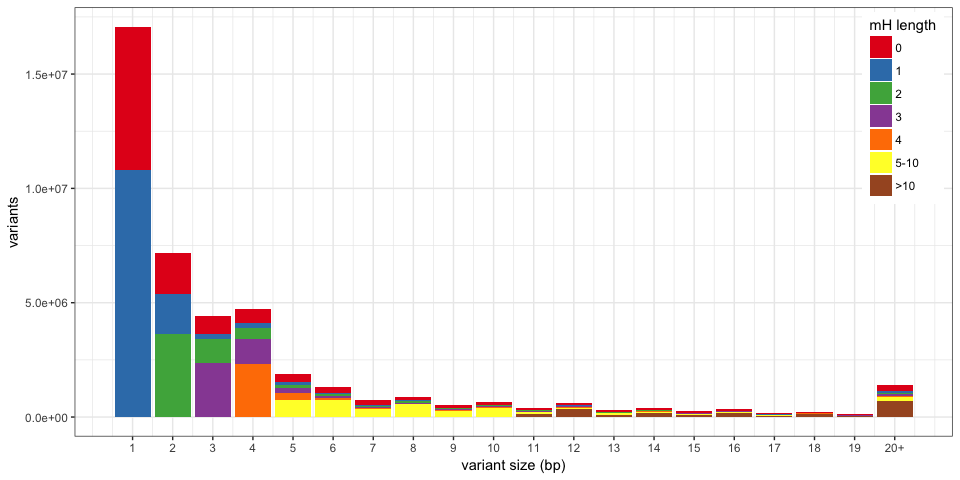
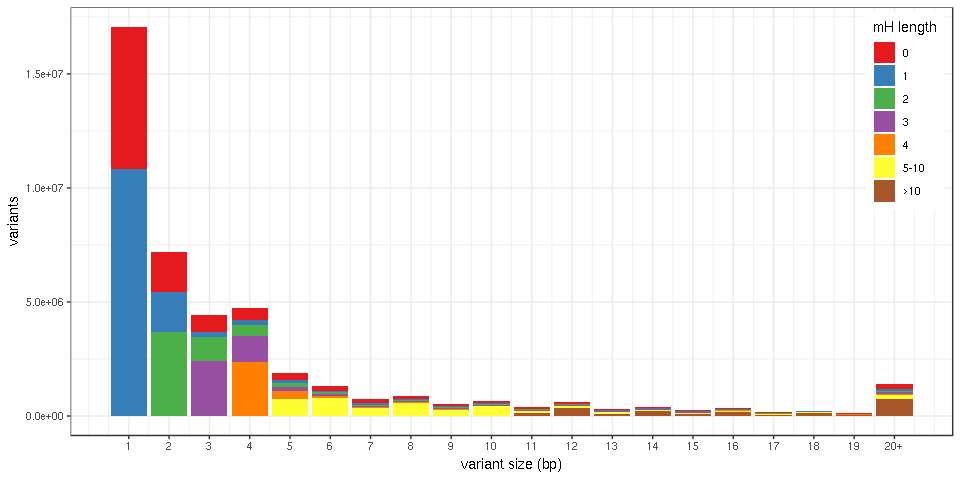
latest results and also stats for xCas9

diff --git a/reports/MHcut-Figures-dbSNPClinVar.md b/reports/MHcut-Figures-dbSNPClinVar.md
@@ -22,11 +22,7 @@ winsor <- function(x, u = 10) {
 }
 ```
 
-Then we’ll read the input TSV file (with 43M variants) using the `fread`
-function. This will create a *data.table* object which uses disk space
-rather than memory (if I understand correctly) so it’s good for big
-data. To reduce the amount of data loaded in R, let’s only load some
-specific columns (using `select=`).
+Then we'll read the input TSV file (with 43M variants) using the `fread` function. This will create a *data.table* object which uses disk space rather than memory (if I understand correctly) so it's good for big data. To reduce the amount of data loaded in R, let's only load some specific columns (using `select=`).
 
 ``` r
 ## Read the first row (headers) to remind us the order of each column
@@ -37,22 +33,23 @@ read.table("../data/mhcut-dbsnp-clinvar-deletion-variants.tsv.gz", nrows = 1)
     ## 1 chr start end RS CAF TOPMED GENEINFO PM MC AF_EXAC AF_TGP ALLELEID CLNDN
     ##      V14     V15              V16        V17      V18     V19  V20 V21
     ## 1 CLNSIG DBVARID GENEINFO.ClinVar MC.ClinVar citation geneloc varL mhL
-    ##    V22 V23  V24    V25    V26    V27    V28     V29        V30         V31
-    ## 1 mh1L hom nbMM mhDist MHseq1 MHseq2 pamMot pamUniq guidesNoOT guidesMinOT
+    ##    V22 V23  V24    V25    V26    V27 V28    V29     V30         V31
+    ## 1 mh1L hom nbMM mhDist MHseq1 MHseq2  GC pamMot pamUniq guidesNoNMH
+    ##            V32          V33
+    ## 1 guidesMinNMH max2cutsDist
 
 ``` r
 ## Import variants and colums varL, mhL, mh1L, mhDist
 var = fread("gunzip -c ../data/mhcut-dbsnp-clinvar-deletion-variants.tsv.gz", 
-    select = c(20:22, 25))
+    select = c(20:22, 25, 29:30))
 ```
 
-This takes about 1 min. Now the `var` object is a *data.table* with 43M
-values. Before feeding this to ggplot2, the most efficient is to compute
-the summary statistics using the `data.table` functions, then convert to
-*data.frame* and call ggplot.
+This takes about 1 min. Now the `var` object is a *data.table* with 43M values. Before feeding this to ggplot2, the most efficient is to compute the summary statistics using the `data.table` functions, then convert to *data.frame* and call ggplot.
 
-Let’s say we want the number of variants for each pair of {variant size,
-MH length}, the *data.table* command is:
+Histogram of the variant size colored by MH length
+--------------------------------------------------
+
+Here we want the number of variants for each pair of {variant size, MH length}, the *data.table* command is:
 
 ``` r
 varmh = var[, .N, by = .(varL, mhL)]
@@ -60,21 +57,20 @@ head(varmh)
 ```
 
     ##    varL mhL       N
-    ## 1:    6   6  577270
-    ## 2:    5   4  316808
-    ## 3:    1   0 6275487
-    ## 4:   19  19   12577
-    ## 5:    5   0  349498
-    ## 6:   13  13   66297
+    ## 1:    6   6  609758
+    ## 2:    5   4  323425
+    ## 3:    1   0 6241188
+    ## 4:   19  19   13646
+    ## 5:    5   0  309849
+    ## 6:   13  13   69665
 
 ``` r
 nrow(varmh)
 ```
 
-    ## [1] 2972
+    ## [1] 3072
 
-This is now just ~3,000 values so we can convert to *data.frame* and use
-dplyr/ggplot to make the graph.
+This is now just ~3,000 values so we can convert to *data.frame* and use dplyr/ggplot to make the graph.
 
 ``` r
 varmh.df = as.data.frame(varmh)
@@ -94,12 +90,12 @@ head(bar.df)
     ## # Groups:   varL [3]
     ##    varL mhL.class        N
     ##   <dbl> <fct>        <int>
-    ## 1  1.00 0          6275487
-    ## 2  1.00 1         10790647
-    ## 3  2.00 0          1781047
-    ## 4  2.00 1          1761704
-    ## 5  2.00 2          3629809
-    ## 6  3.00 0           769328
+    ## 1     1 0          6241188
+    ## 2     1 1         10824944
+    ## 3     2 0          1723247
+    ## 4     2 1          1774571
+    ## 5     2 2          3674728
+    ## 6     3 0           714709
 
 ``` r
 ## Bar plot using ggplot2
@@ -112,8 +108,7 @@ ggplot(bar.df, aes(x = varL, y = N, fill = mhL.class)) + geom_bar(stat = "identi
 
 ![](MHcut-Figures-dbSNPClinVar_files/figure-markdown_github/unnamed-chunk-4-1.png)
 
-Wow, there are not that many variants with no micro-homology. I expected
-much more.
+Wow, there are not that many variants with no micro-homology. I expected much more.
 
 Just a safety check, are we really looking at ~43M variants?
 
@@ -121,12 +116,11 @@ Just a safety check, are we really looking at ~43M variants?
 sum(varmh.df$N)
 ```
 
-    ## [1] 43567375
+    ## [1] 43567343
 
 Yep.
 
-Of note, there is a one-liner way of doing this using the power of
-pipes. It’s a long line but can be read from left to right:
+Of note, there is a one-liner way of doing this using the power of pipes. It's a long line but can be read from left to right:
 
 ``` r
 varmh %>% as.data.frame %>% mutate(mhL.class = cut(mhL, breaks = c(-1, 0, 1, 
@@ -139,3 +133,60 @@ varmh %>% as.data.frame %>% mutate(mhL.class = cut(mhL, breaks = c(-1, 0, 1,
 ```
 
 ![](MHcut-Figures-dbSNPClinVar_files/figure-markdown_github/unnamed-chunk-6-1.png)
+
+Table for different filtering criteria
+--------------------------------------
+
+We want to know how many variants have:
+
+1.  MH length &gt;= 3, `mhL>=3`.
+2.  an available PAM, `pamMot>0`.
+3.  with a unique protospacer, `pamUniq>0`.
+4.  and with no nested MH, `nbNMH==0` in the guide file.
+
+``` r
+nb.mh3 = nrow(var[mhL >= 3])
+nb.mh3.pam = nrow(var[mhL >= 3 & pamMot > 0])
+nb.mh3.pam.uniq = nrow(var[mhL >= 3 & pamMot > 0 & pamUniq > 0])
+```
+
+For the last number we should look into the guides to make sure that we count guides that are both unique and with no nested MH.
+
+``` r
+guides = fread("gunzip -c ../data/mhcut-dbsnp-clinvar-deletion-guides.tsv.gz", 
+    sel = c(1:4, 21, 29, 30, 43))
+nb.mh3.pam.uniq.nonmh = nrow(unique(guides[mhL >= 3 & pamMot > 0 & pamUniq > 
+    0 & nbNMH == 0, .(chr, start, end, RS)]))
+```
+
+Formatted as a table:
+
+``` r
+ngg.sum = tibble(cas9 = "NGG", nb.mh3, nb.mh3.pam, nb.mh3.pam.uniq, nb.mh3.pam.uniq.nonmh)
+kable(ngg.sum, format.args = list(big.mark = ","))
+```
+
+| cas9 |      nb.mh3|  nb.mh3.pam|  nb.mh3.pam.uniq|  nb.mh3.pam.uniq.nonmh|
+|:-----|-----------:|-----------:|----------------:|----------------------:|
+| NGG  |  13,166,790|   2,386,722|        1,425,346|                780,609|
+
+Now let's do the same for the xCas9 run. Because of the more flexible PAM we expect more "targetable" deletions.
+
+``` r
+var.x = fread("gunzip -c ../data/mhcut-dbsnp-clinvar-deletion-xCas9-variants.tsv.gz", 
+    select = c(20:22, 25, 29:30))
+guides.x = fread("gunzip -c ../data/mhcut-dbsnp-clinvar-deletion-xCas9-guides.tsv.gz", 
+    sel = c(1:4, 21, 29, 30, 43))
+
+xcas9.sum = tibble(cas9 = "xCas9", nb.mh3 = nrow(var.x[mhL >= 3]), nb.mh3.pam = nrow(var.x[mhL >= 
+    3 & pamMot > 0]), nb.mh3.pam.uniq = nrow(var.x[mhL >= 3 & pamMot > 0 & pamUniq > 
+    0]), nb.mh3.pam.uniq.nonmh = nrow(unique(guides.x[mhL >= 3 & pamMot > 0 & 
+    pamUniq > 0 & nbNMH == 0, .(chr, start, end, RS)])))
+
+rbind(ngg.sum, xcas9.sum) %>% kable(format.args = list(big.mark = ","))
+```
+
+| cas9  |      nb.mh3|  nb.mh3.pam|  nb.mh3.pam.uniq|  nb.mh3.pam.uniq.nonmh|
+|:------|-----------:|-----------:|----------------:|----------------------:|
+| NGG   |  13,166,790|   2,386,722|        1,425,346|                780,609|
+| xCas9 |  13,166,790|   8,964,375|        4,601,939|              3,360,482|
